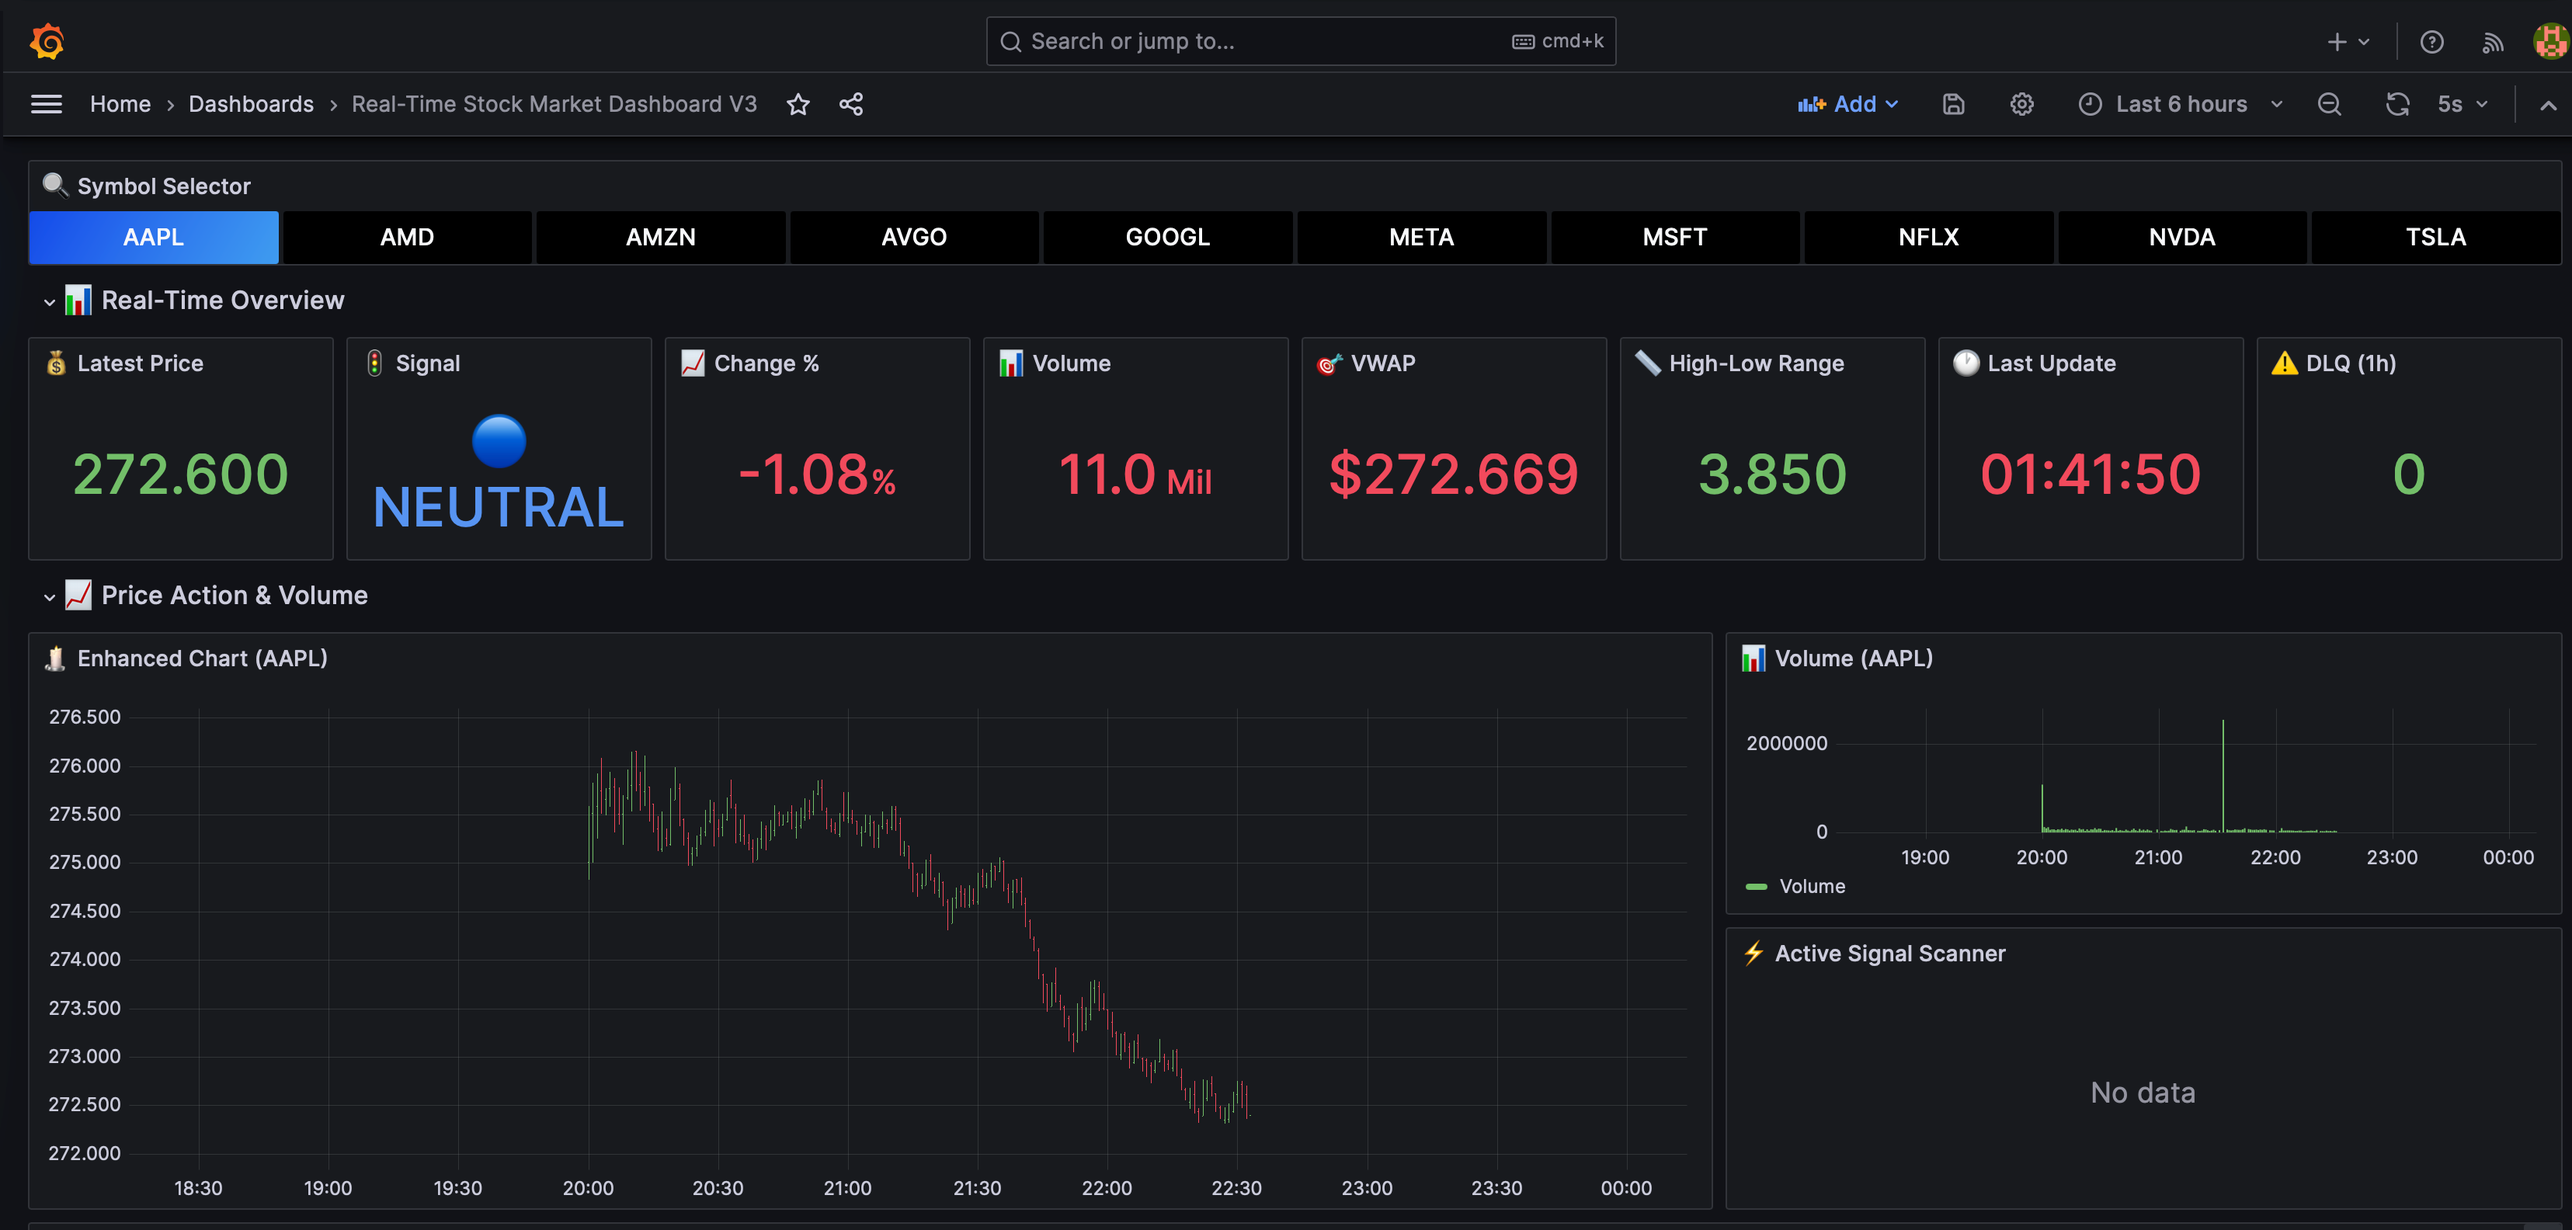
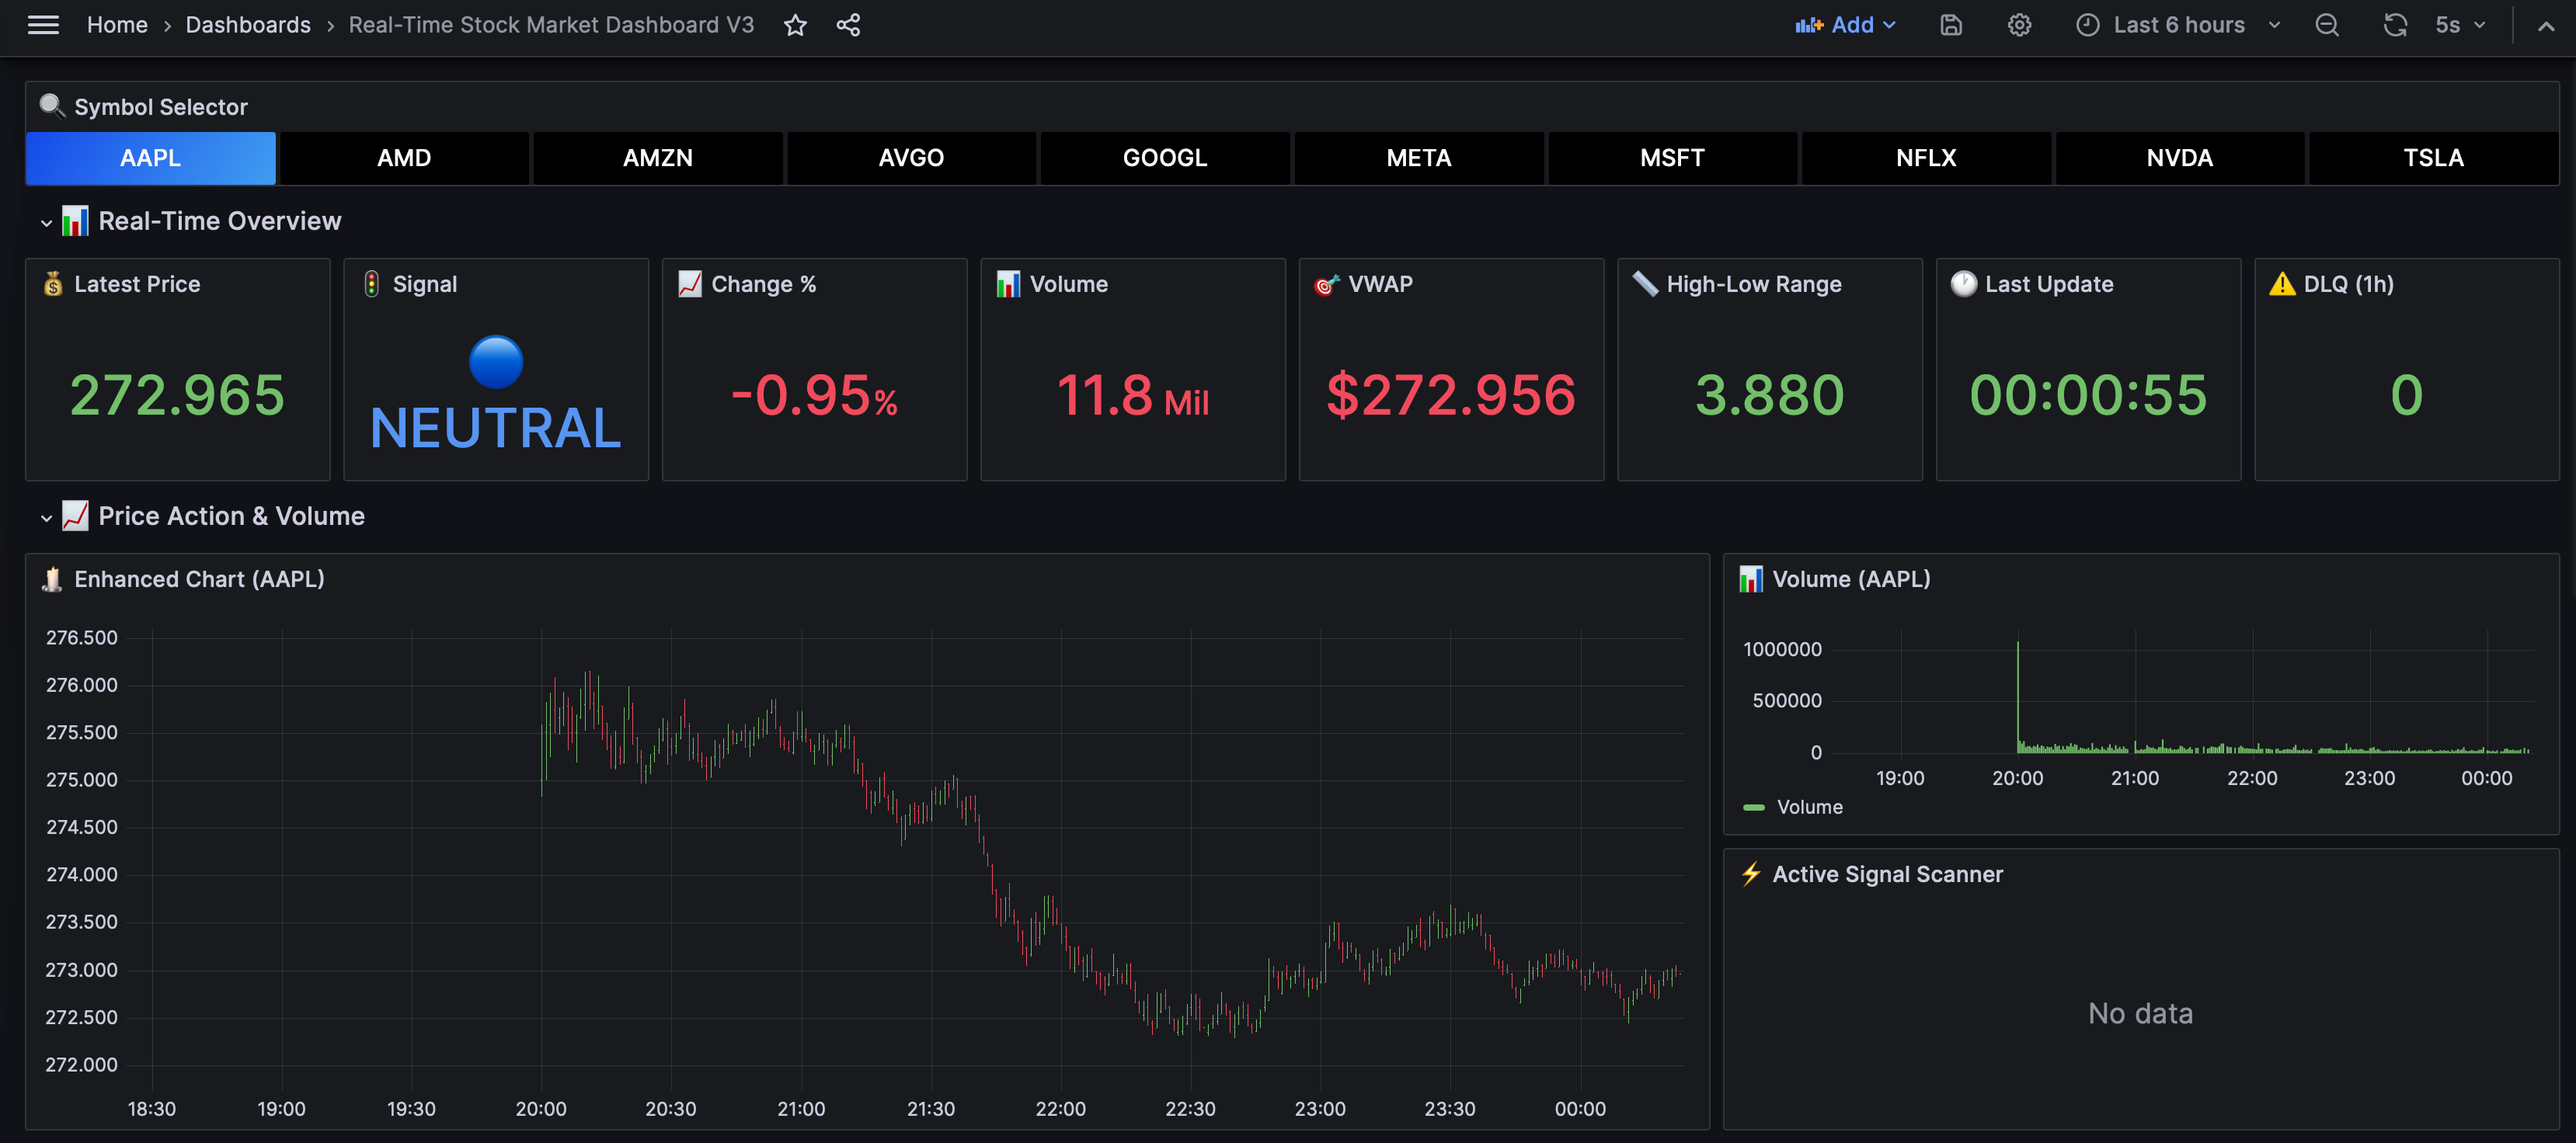
docs: Update README with new section titles, descriptions, and a refreshed dashboard screenshot.

diff --git a/README.md b/README.md
@@ -15,13 +15,13 @@ A production-grade, high-latency streaming data pipeline designed to ingest, pro
 ![Market Overview](docs/dashboard3-1.png)
 *Real-time ticker tape, price movements, and volume heatmaps.*
 
-### 2. Technical Intelligence
+### 2. Technical Analysis
 ![Technical Indicators](docs/dashboard3-2.png)
-*Live MACD, RSI, and Bollinger Brand trend analysis.*
+*Live MACD, RSI, and Bollinger Band trend analysis.*
 
-### 3. System Health & Logs
-![System Health](docs/dashboard3-3.png)
-*Producer heartbeat, consumer lag, and container health metrics.*
+### 3. Volatility Heatmap
+![Volatility Heatmap](docs/dashboard3-3.png)
+*Real-time visualization of price volatility and market intensity.*
 
 ---
 
